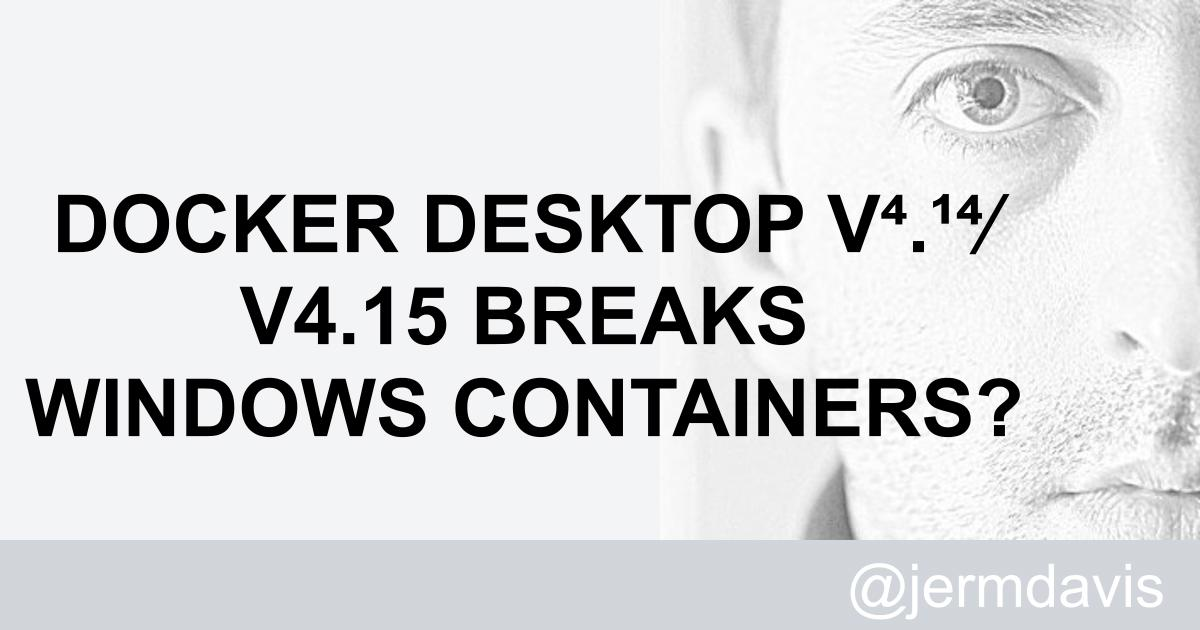
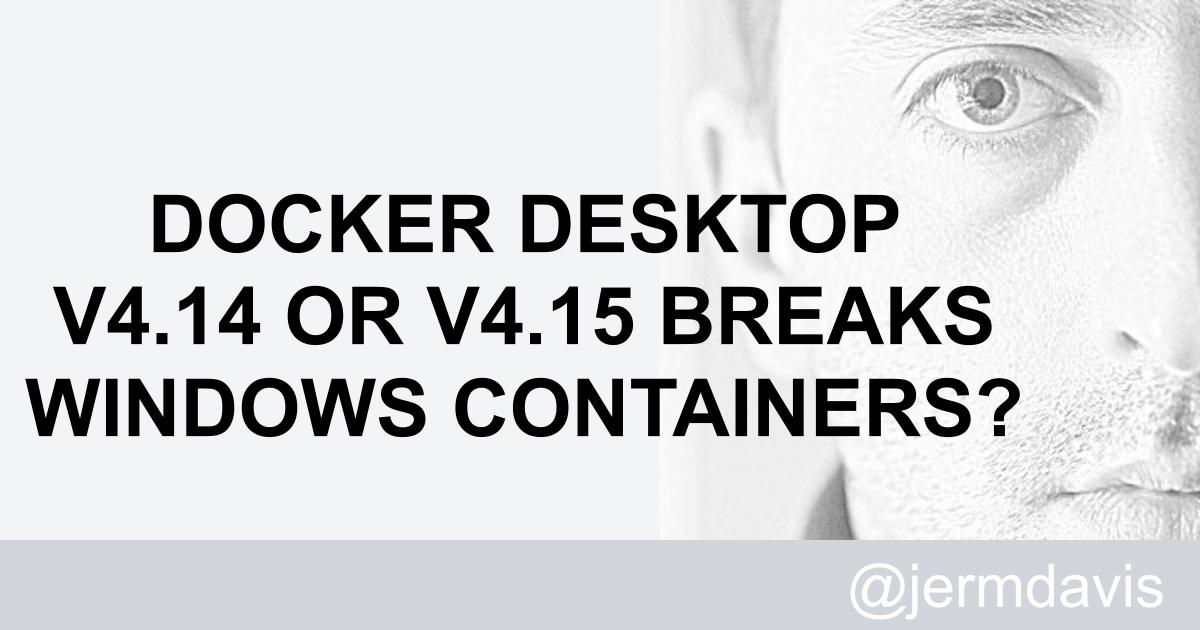
Fix an issue with social image for docker issue post

Changed region(s): [[0.0308, 0.3016, 0.8633, 0.4222], [0.0308, 0.4524, 0.8325, 0.573]]

diff --git a/mvp-renewal.html b/mvp-renewal.html
@@ -126,6 +126,7 @@
 							<i>It's a battle for control of your indexes!</i>
 						</div>
 						<p class="post-meta">Published on 06 December 2021</p>
+						<p>I've had some conversations recently about odd issues with search-driven sites, whose root cause was related to disaster recovery patterns. While it's important to make sure that your business-critical website has a good backup and recovery process in place, it's also important to pay attention to how to correctly configure these scenarios...</p>
 						<div class="flex py-1">
 							<a href="/tags/sitecore/" class="p-1 mr-1 bg-gray-100 rounded-md">
 								Sitecore</a>
@@ -143,6 +144,8 @@
 							<i>It's not always easy to spot what's wrong</i>
 						</div>
 						<p class="post-meta">Published on 17 January 2022</p>
+						<p>I spent some time working with a colleague who couldn't get his docker instance to start up happily this week. And it's reminded me that for all its positives, there are still some challenges with understanding the underlying issues when a developer container instance breaks. I realised I need a "go read this" post for the start of future discussions like this, so here are some problems you might see, and some diagnostic suggestions I wanted a convenient way to share:
+						</p>
 						<div class="flex py-1">
 							<a href="/tags/sitecore/" class="p-1 mr-1 bg-gray-100 rounded-md">
 								Sitecore</a>
@@ -160,6 +163,8 @@
 							<i>If that license fee isn't for you...</i>
 						</div>
 						<p class="post-meta">Published on 31 January 2022</p>
+						<p>If you're reading this soon after I post it then it's very nearly the end of the "grace period" where anyone can run Docker Desktop. As of 1st February
+							<a href="https://www.docker.com/pricing/faq#:~:text=Do%20I%20need%20to%20pay%20to%20continue%20to%20use%20Docker%20Desktop%3F" target="_blank" rel="noopener">if your business meets certain requirements you have to pay for each user</a>. So what can us Sitecore devs do if we aren't in a position to pay that fee? Well the good news is you can run Docker without the Desktop bit, and it's not too tricky once you wrap your head around a few things...</p>
 						<div class="flex py-1">
 							<a href="/tags/docker/" class="p-1 mr-1 bg-gray-100 rounded-md">
 								Docker</a>
@@ -177,6 +182,7 @@
 							<i>Finding the cause of very old issue...</i>
 						</div>
 						<p class="post-meta">Published on 14 March 2022</p>
+						<p>I came across an interesting issue generating a Sitecore Package recently. Googling the issue didn't give me the whole answer, so it's time to enhance the internet again with a explanation of what I saw and why I think it happened...</p>
 						<div class="flex py-1">
 							<a href="/tags/sitecore/" class="p-1 mr-1 bg-gray-100 rounded-md">
 								Sitecore</a>
@@ -196,6 +202,8 @@
 							<i>When your prototyping tools don't work the way you expect</i>
 						</div>
 						<p class="post-meta">Published on 28 March 2022</p>
+						<p>I've started looking at the details of the Headless Services GraphQL endpoints in Sitecore recently. And as part of this research, I got a bit confused trying to test queries in the Sitecore UI. I've worked out what was up, but maybe others will find themselves in a similar situation, so:
+						</p>
 						<div class="flex py-1">
 							<a href="/tags/sitecore/" class="p-1 mr-1 bg-gray-100 rounded-md">
 								Sitecore</a>
@@ -213,6 +221,8 @@
 							<i>Not clickbait - an actual opinion</i>
 						</div>
 						<p class="post-meta">Published on 11 April 2022</p>
+						<p>I wasn't at SUGCON this year, but I was watching the Twitter reactions, and I've chatted to a few community people about what was said at the event. And in amongst all the exiting technical stuff about XM Cloud, I think there's one slide which really stands out to me...
+						</p>
 						<div class="flex py-1">
 							<a href="/tags/sitecore/" class="p-1 mr-1 bg-gray-100 rounded-md">
 								Sitecore</a>
@@ -230,6 +240,8 @@
 							<i>Sometimes the smoking gun isn't the reason...</i>
 						</div>
 						<p class="post-meta">Published on 09 May 2022</p>
+						<p>I hit a rather confusing issue with a release a while back, which initially appeared to be a Unicorn problem. But after investigating the details, I think this was actually an infrastructure problem causing some odd behaviour. I doubt this is a common problem, but still worth writing down in case it's a challenge for anyone else...
+						</p>
 						<div class="flex py-1">
 							<a href="/tags/sitecore/" class="p-1 mr-1 bg-gray-100 rounded-md">
 								Sitecore</a>
@@ -243,12 +255,15 @@
 					</div>
 					<div class="post-preview">
 						<h2 class="post-title">
-							<a href="/posts/2022/Windows-11-gotcha">Another Windows 11 Gotcha</a>
+							<a href="/posts/2022/windows-11-gotcha">Another Windows 11 Gotcha</a>
 						</h2>
 						<div class="post-subtitle">
 							<i>Unsupported fun for everyone...</i>
 						</div>
 						<p class="post-meta">Published on 20 June 2022</p>
+						<p>For the moment
+							<a href="https://support.sitecore.com/kb?id=kb_article_view&amp;sysparm_article=KB0087164" target="_blank" rel="noopener">Sitecore don't support Windows 11</a>
+							for installing XM or XP - but since Microsoft have a fairly agressive policy of rolling it out to machines currently running Windows 10 and installing it by default on new hardware, there are a fair few developers out there finding themselves having to work out how to get it to work...</p>
 						<div class="flex py-1">
 							<a href="/tags/sitecore/" class="p-1 mr-1 bg-gray-100 rounded-md">
 								Sitecore</a>
@@ -270,6 +285,7 @@
 							<i>A helpful shortcut to containerised Solr</i>
 						</div>
 						<p class="post-meta">Published on 04 July 2022</p>
+						<p>One of the recurring themes of deploying Sitecore over the last few years has been "how do I deal with Solr?". It's a question with many valid answers... I've been doing some research for a client recently, because they wanted to run their own SolrCloud instances in Kubernetes - and I came across the Apache Foundation's "Solr Operator" project. It's an interesting shortcut to efficient containerised deployments of Solr, and it might help you too...</p>
 						<div class="flex py-1">
 							<a href="/tags/kubernetes/" class="p-1 mr-1 bg-gray-100 rounded-md">
 								Kubernetes</a>
@@ -289,6 +305,12 @@
 							<i>Rapid, easy deployment for Sitecore demos</i>
 						</div>
 						<p class="post-meta">Published on 18 July 2022</p>
+						<p>If you're part of the Sitecore Partner or MVP community then you probably watched some of the content from their "<a href="https://twitter.com/Tzikakis/status/1546854414937374720" target="_blank" rel="noopener">Global Sales Kick-off</a>" recently. They talked about product roadmap and strategy stuff for the coming year, especially the new
+							<a href="https://www.sitecore.com/company/news-events/press-releases/2022/07/sitecore-experience-manager-cloud-now-available" target="_blank" rel="noopener">XM Cloud</a>
+							product. But something else which
+							<a href="https://twitter.com/daveof" target="_blank" rel="noopener">Dave O'Flanagan</a>
+							called out in his session is of interest to us in the community too: Sitecore's new internal demo portal.</p>
+						<p>The need to spin up a demo instance of Sitecore has been a common challenge for me over the time I've worked with the product. There have been various ways to do this - some very manual, and some involving a bit more automation. Different organisations and people all had their own approaches to how best to do this - but it's now being looked at centrally. I was lucky enough to get a sneak-peak of their new approach to this problem. And now it's been launched it seemed like something worth writing up, to make more Partners and MVPs aware of the tools at their disposal.</p>
 						<div class="flex py-1">
 							<a href="/tags/sitecore/" class="p-1 mr-1 bg-gray-100 rounded-md">
 								Sitecore</a>
@@ -306,6 +328,7 @@
 							<i>What's caught my eye on this year's agenda?</i>
 						</div>
 						<p class="post-meta">Published on 15 August 2022</p>
+						<p>For me at least, Symposium is going to be very interesting this year. The move to composable, the first big public event discussing the reality of XM Cloud and the new Sitecore Search product will all generate a lot of interesting content. Plus, with this being the first in-person event since the whole COVID business, I'm expecting quite a buzz this year. Since the first version of the agenda for the sessions was published last week, I've been doing a bit of thinking about what I want to watch in amongst all the great content. So here are some thoughts on the key breakout sessions I'd like to attend. Other than the one that I'm presenting, of course...</p>
 						<div class="flex py-1">
 							<a href="/tags/symposium/" class="p-1 mr-1 bg-gray-100 rounded-md">
 								Symposium</a>
@@ -321,6 +344,8 @@
 							<i>Lots of choices, some confusion...</i>
 						</div>
 						<p class="post-meta">Published on 29 August 2022</p>
+						<p>One thing we don't seem to be short of these days is options for deploying Solr. I've had to do a bit of thinking about this recently, as I draw up plans for a work project. So I figured I'd write a bit of it down because if I'm having to explain it to people, then chances are there are plenty of others out there in Internet Land who are finding themselves having to think about these issues too:
+						</p>
 						<div class="flex py-1">
 							<a href="/tags/solr/" class="p-1 mr-1 bg-gray-100 rounded-md">
 								Solr</a>
@@ -342,6 +367,9 @@
 							<i>You can't win them all...</i>
 						</div>
 						<p class="post-meta">Published on 26 September 2022</p>
+						<p>Usually with these blog posts, I find a problem, I fight with it for a bit, and then I solve the problem. But this post has been sitting half-written in my publishing queue since May (!) this year, and I have entirely failed to solve this issue. So I'm admitting defeat, and publishing this anyway because maybe one of you knows the answer. Or at least it might serve as a warning...</p>
+						<p>My issue is that I've been working through some really odd and annoying Solr issues which only manifest in Docker on one laptop. I'm really not sure if these are issues that others might see, or if this is a problem that's entirely down to this laptop's setup. But they're definitely a problem...
+						</p>
 						<div class="flex py-1">
 							<a href="/tags/docker/" class="p-1 mr-1 bg-gray-100 rounded-md">
 								Docker</a>
@@ -361,6 +389,11 @@
 							<i>I filled a notebook - but here's a summary</i>
 						</div>
 						<p class="post-meta">Published on 24 October 2022</p>
+						<p>Having been in Chicago for the last week to attend
+							<a href="https://symposium.sitecore.com/" target="_blank" rel="noopener">Symposium</a>
+							and the MVP summit, I now have a notebook full of interesting observations. While some of that is under NDA and hence all
+							<a href="https://en.wikipedia.org/wiki/Secret_Squirrel" target="_blank" rel="noopener">Secret Squirrel</a>, there were a collection of important public announcements which I can report. The key product and technical take-aways from the conferece are pretty important for customers and partners. So here's my summary:
+						</p>
 						<div class="flex py-1">
 							<a href="/tags/sitecore/" class="p-1 mr-1 bg-gray-100 rounded-md">
 								Sitecore</a>
@@ -376,6 +409,7 @@
 							<i>Proof that just because I've been doing this for a decade, I do not know it all...</i>
 						</div>
 						<p class="post-meta">Published on 07 November 2022</p>
+						<p>I had a moment of confusion with broken Insert Options recently, which made me wonder whether I ever knew the answer behind the issue or whether I'd just forgotten it over the many years I've been working with this CMS. Either way, this needs writing down to help me remember it in the future...</p>
 						<div class="flex py-1">
 							<a href="/tags/sitecore/" class="p-1 mr-1 bg-gray-100 rounded-md">
 								Sitecore</a>

diff --git a/page/24.html b/page/24.html
@@ -159,6 +159,20 @@
 								</div>
 								<div class="post-preview">
 									<h2 class="post-title">
+										<a href="/posts/2015/bonus-chatter-having-issues-with-lego-games">Bonus Chatter: Having issues with Lego&nbsp;games?</a>
+									</h2>
+									<div class="post-subtitle">
+										<i></i>
+									</div>
+									<p class="post-meta">Published on 19 January 2015</p>
+									<p>My son loves the Lego-branded games available via Steam. He's a massive fan of the Lego versions of Batman, Marvel and the recent Lego Movie game. But as much as he loves them, as the owner of the computer he plays on, I've found them frustrating. You buy a game, download it, and it works fine for a while. But at some point all of these games have suffered from a problem where you stop being able to launch them. Having had to figure out solutions via Google to keep my son happy, I'm writing this down so I can remember it next time...</p>
+									<div class="flex py-1">
+										<a href="/tags/games/" class="p-1 mr-1 bg-gray-100 rounded-md">
+											Games</a>
+									</div>
+								</div>
+								<div class="post-preview">
+									<h2 class="post-title">
 										<a href="/posts/2015/gotchas-with-custom-apps-v2">Gotchas with custom apps, version&nbsp;2</a>
 									</h2>
 									<div class="post-subtitle">
@@ -175,20 +189,6 @@
 											Sitecore</a>
 										<a href="/tags/ui/" class="p-1 mr-1 bg-gray-100 rounded-md">
 											UI</a>
-									</div>
-								</div>
-								<div class="post-preview">
-									<h2 class="post-title">
-										<a href="/posts/2015/bonus-chatter-having-issues-with-lego-games">Bonus Chatter: Having issues with Lego&nbsp;games?</a>
-									</h2>
-									<div class="post-subtitle">
-										<i></i>
-									</div>
-									<p class="post-meta">Published on 19 January 2015</p>
-									<p>My son loves the Lego-branded games available via Steam. He's a massive fan of the Lego versions of Batman, Marvel and the recent Lego Movie game. But as much as he loves them, as the owner of the computer he plays on, I've found them frustrating. You buy a game, download it, and it works fine for a while. But at some point all of these games have suffered from a problem where you stop being able to launch them. Having had to figure out solutions via Google to keep my son happy, I'm writing this down so I can remember it next time...</p>
-									<div class="flex py-1">
-										<a href="/tags/games/" class="p-1 mr-1 bg-gray-100 rounded-md">
-											Games</a>
 									</div>
 								</div>
 								<div class="post-preview">

diff --git a/posts/2015-01.html b/posts/2015-01.html
@@ -153,6 +153,20 @@
 					</div>
 					<div class="post-preview">
 						<h2 class="post-title">
+							<a href="/posts/2015/bonus-chatter-having-issues-with-lego-games">Bonus Chatter: Having issues with Lego&nbsp;games?</a>
+						</h2>
+						<div class="post-subtitle">
+							<i></i>
+						</div>
+						<p class="post-meta">Published on 19 January 2015</p>
+						<p>My son loves the Lego-branded games available via Steam. He's a massive fan of the Lego versions of Batman, Marvel and the recent Lego Movie game. But as much as he loves them, as the owner of the computer he plays on, I've found them frustrating. You buy a game, download it, and it works fine for a while. But at some point all of these games have suffered from a problem where you stop being able to launch them. Having had to figure out solutions via Google to keep my son happy, I'm writing this down so I can remember it next time...</p>
+						<div class="flex py-1">
+							<a href="/tags/games/" class="p-1 mr-1 bg-gray-100 rounded-md">
+								Games</a>
+						</div>
+					</div>
+					<div class="post-preview">
+						<h2 class="post-title">
 							<a href="/posts/2015/gotchas-with-custom-apps-v2">Gotchas with custom apps, version&nbsp;2</a>
 						</h2>
 						<div class="post-subtitle">
@@ -169,20 +183,6 @@
 								Sitecore</a>
 							<a href="/tags/ui/" class="p-1 mr-1 bg-gray-100 rounded-md">
 								UI</a>
-						</div>
-					</div>
-					<div class="post-preview">
-						<h2 class="post-title">
-							<a href="/posts/2015/bonus-chatter-having-issues-with-lego-games">Bonus Chatter: Having issues with Lego&nbsp;games?</a>
-						</h2>
-						<div class="post-subtitle">
-							<i></i>
-						</div>
-						<p class="post-meta">Published on 19 January 2015</p>
-						<p>My son loves the Lego-branded games available via Steam. He's a massive fan of the Lego versions of Batman, Marvel and the recent Lego Movie game. But as much as he loves them, as the owner of the computer he plays on, I've found them frustrating. You buy a game, download it, and it works fine for a while. But at some point all of these games have suffered from a problem where you stop being able to launch them. Having had to figure out solutions via Google to keep my son happy, I'm writing this down so I can remember it next time...</p>
-						<div class="flex py-1">
-							<a href="/tags/games/" class="p-1 mr-1 bg-gray-100 rounded-md">
-								Games</a>
 						</div>
 					</div>
 					<div class="post-preview">

diff --git a/posts/2022/fix-broken-pipe-docker-engine-windows.html b/posts/2022/fix-broken-pipe-docker-engine-windows.html
@@ -10,7 +10,7 @@
 		<meta name="keywords" content="Docker, Containers, Bug">
 		<meta name="author" content="Jeremy Davis">
 		<meta name="copyright" content="Jeremy Davis">
-		<title>Jeremy Davis - Docker Desktop v4.14/v4.15 breaks Windows Containers?</title>
+		<title>Jeremy Davis - Docker Desktop v4.14 or v4.15 breaks Windows Containers?</title>
 		<meta name="robots" content="index, follow">
 		<link type="application/rss+xml" rel="alternate" title="Jeremy Davis - Sitecore, C# and web development" href="/feed.rss">
 		<link type="application/atom+xml" rel="alternate" title="Jeremy Davis - Sitecore, C# and web development" href="/feed.atom">
@@ -18,13 +18,13 @@
 		<meta name="msapplication-tooltip" content="Jeremy Davis">
 		<meta name="msapplication-starturl" content="/">
 		<link rel="manifest" href="/manifest.webmanifest">
-		<meta property="og:title" content="Jeremy Davis - Docker Desktop v4.14/v4.15 breaks Windows Containers?">
+		<meta property="og:title" content="Jeremy Davis - Docker Desktop v4.14 or v4.15 breaks Windows Containers?">
 		<meta property="og:image" content="https://blog.jermdavis.dev/img/featured/fix-broken-pipe-docker-engine-windows-social.jpg">
 		<script type="application/ld+json">
     {
         "@context": "https://schema.org",
         "@type": "Article",
-        "headline": "Docker Desktop v4.14/v4.15 breaks Windows Containers?",
+        "headline": "Docker Desktop v4.14 or v4.15 breaks Windows Containers?",
         "image": [
             "https://blog.jermdavis.dev/img/featured/fix-broken-pipe-docker-engine-windows-social.jpg"
         ],
@@ -126,7 +126,7 @@
 					<tt>https://blog.jermdavis.dev/posts/2022/fix-broken-pipe-docker-engine-windows</tt>
 				</div>
 				<h1 class="text-5xl mb-4 pb-1">
-					Docker Desktop v4.14/v4.15 breaks Windows Containers?
+					Docker Desktop v4.14 or v4.15 breaks Windows Containers?
 				</h1>
 				<h2 class="text-2xl">Do you have issues with the \\.\pipe\docker_engine_windows named pipe too?</h2>
 				<div class="meta">Published 07 December 2022</div>

diff --git a/index.html b/index.html
@@ -30,7 +30,7 @@
 		<link href="/scss/site-theme.css" rel="stylesheet">
 		<script src="/vendor/Cookies/cookies.min.js" defer=""></script>
 		
-		<!-- 07/12/2022 20:14:41 -->
+		<!-- 07/12/2022 20:25:34 -->
 	</head>
 	<body class="max-w-7xl mx-auto">
 		<div class="relative bg-white" x-data="{ open: false }">
@@ -125,7 +125,7 @@
 							<div class="col-md-6 right-border col-sm-height">
 								<div class="post-preview">
 									<h2 class="post-title">
-										<a href="/posts/2022/fix-broken-pipe-docker-engine-windows">Docker Desktop v4.14/v4.15 breaks Windows Containers?</a>
+										<a href="/posts/2022/fix-broken-pipe-docker-engine-windows">Docker Desktop v4.14 or v4.15 breaks Windows Containers?</a>
 									</h2>
 									<div class="post-subtitle">
 										<i>Do you have issues with the \\.\pipe\docker_engine_windows named pipe too?</i>

diff --git a/tags/bug/index.html b/tags/bug/index.html
@@ -121,7 +121,7 @@
 							<div class="col-md-6 right-border col-sm-height">
 								<div class="post-preview">
 									<h2 class="post-title">
-										<a href="/posts/2022/fix-broken-pipe-docker-engine-windows">Docker Desktop v4.14/v4.15 breaks Windows Containers?</a>
+										<a href="/posts/2022/fix-broken-pipe-docker-engine-windows">Docker Desktop v4.14 or v4.15 breaks Windows Containers?</a>
 									</h2>
 									<div class="post-subtitle">
 										<i>Do you have issues with the \\.\pipe\docker_engine_windows named pipe too?</i>

diff --git a/tags/containers/index.html b/tags/containers/index.html
@@ -121,7 +121,7 @@
 							<div class="col-md-6 right-border col-sm-height">
 								<div class="post-preview">
 									<h2 class="post-title">
-										<a href="/posts/2022/fix-broken-pipe-docker-engine-windows">Docker Desktop v4.14/v4.15 breaks Windows Containers?</a>
+										<a href="/posts/2022/fix-broken-pipe-docker-engine-windows">Docker Desktop v4.14 or v4.15 breaks Windows Containers?</a>
 									</h2>
 									<div class="post-subtitle">
 										<i>Do you have issues with the \\.\pipe\docker_engine_windows named pipe too?</i>

diff --git a/tags/docker/index.html b/tags/docker/index.html
@@ -121,7 +121,7 @@
 							<div class="col-md-6 right-border col-sm-height">
 								<div class="post-preview">
 									<h2 class="post-title">
-										<a href="/posts/2022/fix-broken-pipe-docker-engine-windows">Docker Desktop v4.14/v4.15 breaks Windows Containers?</a>
+										<a href="/posts/2022/fix-broken-pipe-docker-engine-windows">Docker Desktop v4.14 or v4.15 breaks Windows Containers?</a>
 									</h2>
 									<div class="post-subtitle">
 										<i>Do you have issues with the \\.\pipe\docker_engine_windows named pipe too?</i>

diff --git a/posts/2022-12.html b/posts/2022-12.html
@@ -118,7 +118,7 @@
 				<div class="lg:flex-auto mx-3 lg:min-w-0 ">
 					<div class="post-preview">
 						<h2 class="post-title">
-							<a href="/posts/2022/fix-broken-pipe-docker-engine-windows">Docker Desktop v4.14/v4.15 breaks Windows Containers?</a>
+							<a href="/posts/2022/fix-broken-pipe-docker-engine-windows">Docker Desktop v4.14 or v4.15 breaks Windows Containers?</a>
 						</h2>
 						<div class="post-subtitle">
 							<i>Do you have issues with the \\.\pipe\docker_engine_windows named pipe too?</i>
